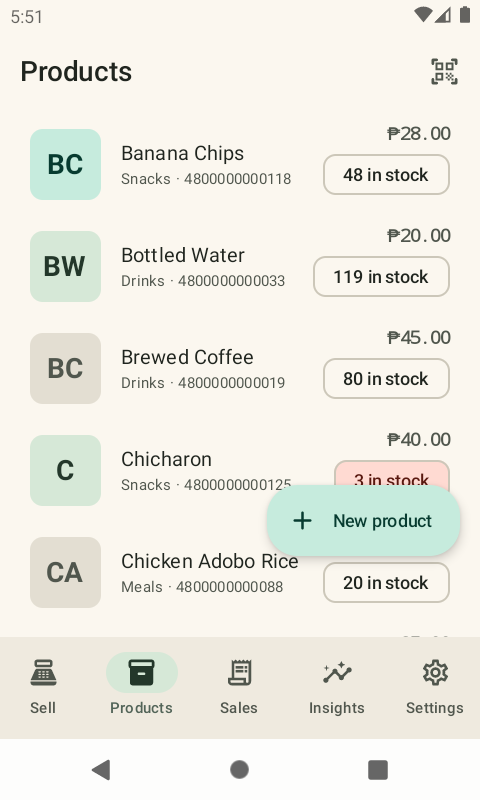
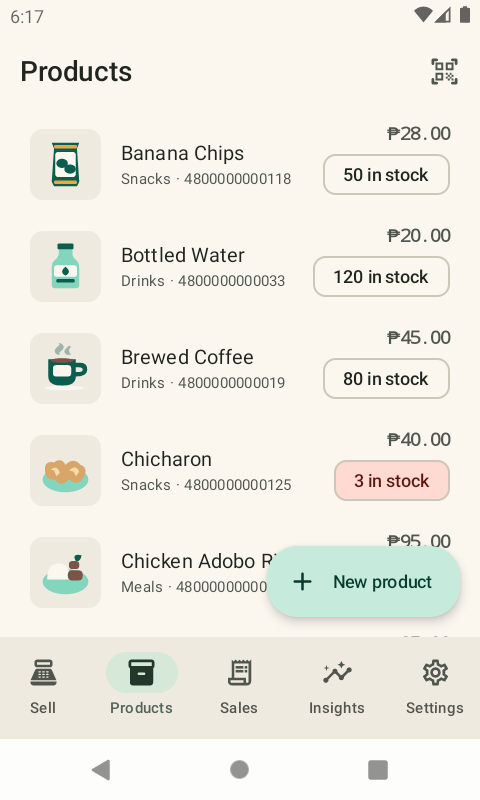
Hide name suggestions while searching templates; fix monogram from punctuation
Monograms skip words that start with punctuation ("Pandesal (10 pcs)" was
"P("). Docs and screenshots cover built-in product images.

diff --git a/app/src/main/java/com/phcodesage/kwentaro/ui/components/Components.kt b/app/src/main/java/com/phcodesage/kwentaro/ui/components/Components.kt
@@ -67,7 +67,7 @@ fun ProductThumb(product: Product, modifier: Modifier = Modifier, shape: Shape =
             val (container, content) = tilePalette[(product.name.hashCode() and Int.MAX_VALUE) % tilePalette.size]
             Box(Modifier.fillMaxSize().background(container), contentAlignment = Alignment.Center) {
                 Text(
-                    product.name.split(" ").filter { it.isNotBlank() }.take(2).joinToString("") { it.first().uppercase() },
+                    product.name.split(" ").filter { it.firstOrNull()?.isLetterOrDigit() == true }.take(2).joinToString("") { it.first().uppercase() },
                     color = content, fontWeight = FontWeight.Bold, fontSize = 22.sp,
                 )
             }

diff --git a/app/src/main/java/com/phcodesage/kwentaro/ui/products/ProductTemplatePicker.kt b/app/src/main/java/com/phcodesage/kwentaro/ui/products/ProductTemplatePicker.kt
@@ -97,7 +97,7 @@ fun ProductTemplatePicker(
                     }
                 }
             }
-            if (suggestions.isNotEmpty()) {
+            if (suggestions.isNotEmpty() && search.isBlank()) {
                 item(key = "picker-suggestions", span = { GridItemSpan(maxLineSpan) }) {
                     Column(verticalArrangement = Arrangement.spacedBy(8.dp)) {
                         Text("Suggested", style = MaterialTheme.typography.titleSmall)

diff --git a/README.md b/README.md
@@ -14,6 +14,7 @@ Kwentaro has no accounts, no server, and no subscription. All data stays on the 
 </p>
 <p>
   <img src="docs/screenshots/scanner.png" width="200" alt="Barcode scanner">
+  <img src="docs/screenshots/template-picker.png" width="200" alt="Built-in product images">
   <img src="docs/screenshots/product-editor.png" width="200" alt="Product editor with camera photo">
   <img src="docs/screenshots/insights.png" width="200" alt="Insights">
   <img src="docs/screenshots/dark-register.png" width="200" alt="Dark theme">
@@ -23,7 +24,7 @@ Kwentaro has no accounts, no server, and no subscription. All data stays on the 
 
 - **Register.** A product grid with search and category filters. Tap a product to add it, and adjust quantities in the cart. You can also apply a 5/10/20% discount. Quantities can't exceed stock on hand.
 - **Camera barcode scanning.** Uses CameraX and on-device ML Kit, and reads EAN, UPC, QR, Code 128 and more. In continuous mode, every scan adds the item to the cart. There is a flashlight toggle, and the scanner falls back to the front camera on devices that have no rear camera.
-- **Product photos.** Take a photo in the app with CameraX or pick one from the gallery. Products without a photo get a colored monogram tile.
+- **Product images.** Take a photo in the app with CameraX, pick one from the gallery, or choose from **126 built-in illustrations** of everyday PH store items (kape, pandesal, itlog, sardinas, e-load, and more). The illustrations are searchable in English and Tagalog. They are tiny vector drawables, about 63 KB in the APK for the whole set. New products get a matching image picked automatically from their name. Products with no image get a colored monogram tile.
 - **Checkout.** Pay by cash, card or e-wallet. For cash, quick-tender chips (Exact, next ₱20/50/100/500…) fill in the amount and the change is calculated live. You can add an optional customer name.
 - **VAT/tax.** Tax can be included in the price (the default, 12% PH VAT) or added on top. Money is stored in centavos, so totals never drift.
 - **Receipts.** Each sale gets a receipt number (`KW-YYMMDD-#####`). Receipts can be shared as text through any app (Messenger, Viber, email…). You can refund a sale, which puts its items back into stock.

diff --git a/CHANGELOG.md b/CHANGELOG.md
@@ -11,4 +11,5 @@ First release.
 - Checkout with cash/card/e-wallet, quick-tender and live change
 - VAT inclusive/exclusive tax, receipts with share and refund
 - Inventory with low-stock alerts; sales insights dashboard
+- 126 built-in product illustrations with a searchable picker and name-based auto-suggest
 - Kwentaro logo, themed launcher icon, Palengke light/dark Material 3 theme
